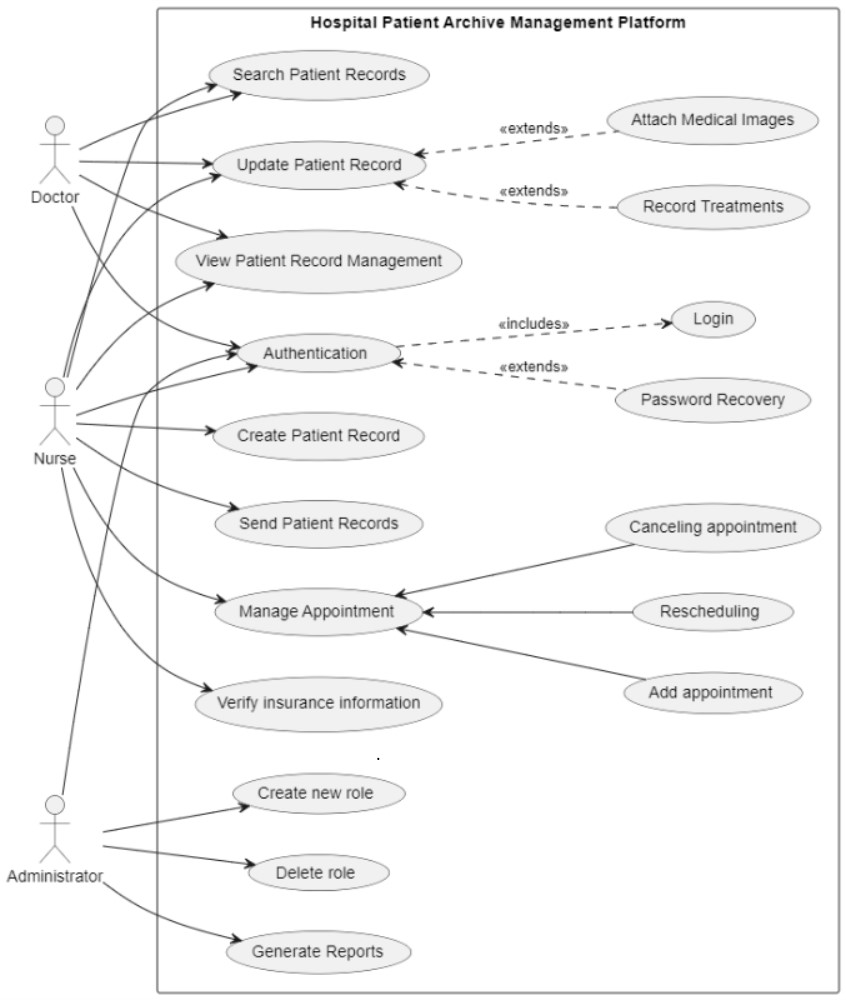
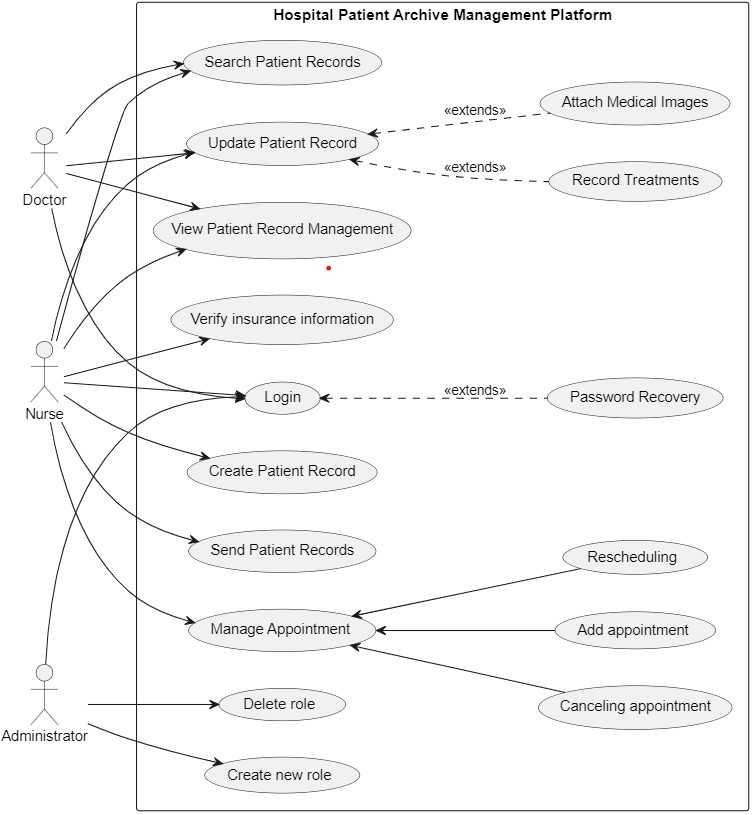
update

diff --git a/usecasediagram.md b/usecasediagram.md
@@ -21,5 +21,5 @@
 ## Interactions:
 - **Nurse interactions:** Nurses are involved in creating , updating and viewing patient records, managing appointments, and verifying insurance.
 - **Doctor interactions:** Doctors can search, update, and view patient records.
-- **Administrator interactions:** Administrators manage roles, create/delete roles, and generate reports.
+- **Administrator interactions:** Administrators manage roles and create/delete roles.
 

diff --git a/userStories.md b/userStories.md
@@ -32,10 +32,6 @@
 
 - As an **administrator**, I want to ensure that the platform **complies with healthcare regulations and standards**.
 
-## Reporting and Analysis:
-
-- As an **administrator**, I want to **generate reports** on patient demographics, diagnoses, treatments, and outcomes for analysis.
-
 ## User Interface and Experience:
 
 - As a **user**, I want the **user interface to be intuitive and user-friendly** for easy navigation.
